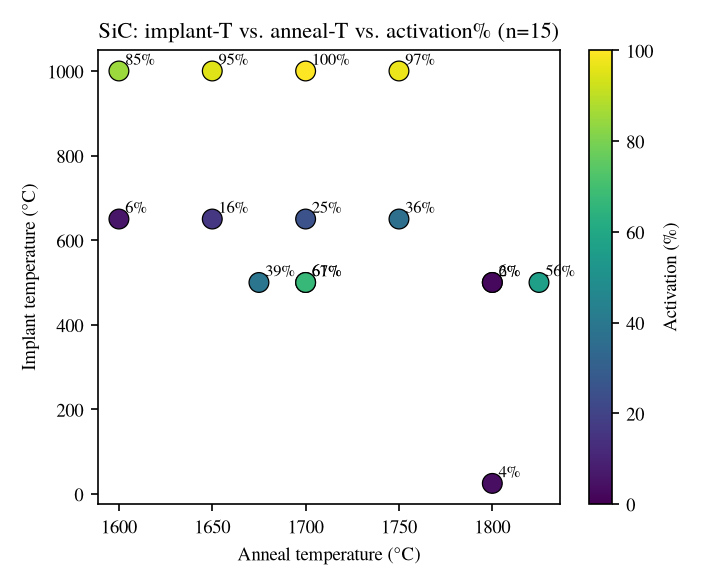
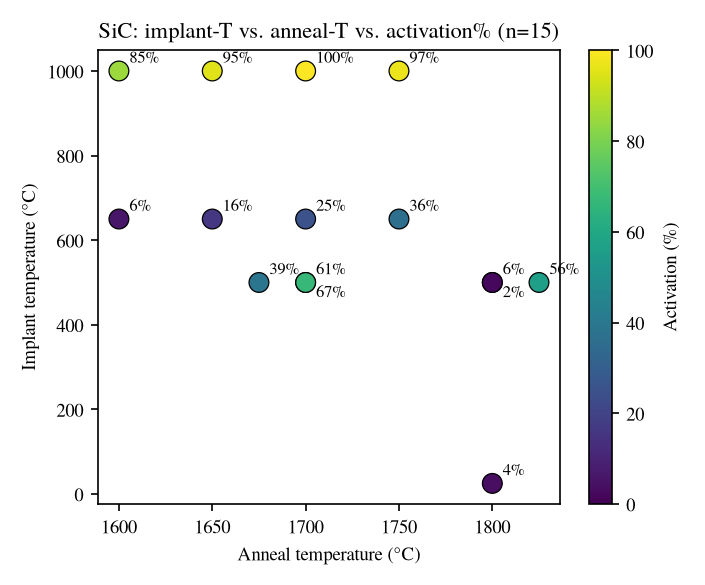
Fix overlapping labels in the activation figure and point the README to release v1.7

diff --git a/01_sic_analysis.py b/01_sic_analysis.py
@@ -262,8 +262,13 @@ plt.rcParams.update({"font.size": 9})
 fig, ax = plt.subplots(figsize=(4.7, 3.9))
 sc_ = ax.scatter(mv.anneal_T, mv.implant_T, c=mv.act, s=90, cmap="viridis", edgecolor="k",
                  linewidth=0.6, vmin=0, vmax=100)
+seen_pts = {}
 for _, r in mv.iterrows():
-    ax.annotate(f"{r.act:.0f}%", (r.anneal_T, r.implant_T), fontsize=8, xytext=(3, 3),
+    key = (round(r.anneal_T), round(r.implant_T))
+    k = seen_pts.get(key, 0)
+    seen_pts[key] = k + 1
+    # labels of points at identical coordinates are stacked so that they do not overlap
+    ax.annotate(f"{r.act:.0f}%", (r.anneal_T, r.implant_T), fontsize=8, xytext=(5, 4 - 11 * k),
                 textcoords="offset points")
 ax.set_xlabel("Anneal temperature (°C)")
 ax.set_ylabel("Implant temperature (°C)")

diff --git a/README.md b/README.md
@@ -58,7 +58,7 @@ Code: MIT. Data and figures: CC BY 4.0 (see `LICENSE`).
 
 Figures are drawn in a Times-type font. If Times New Roman, Times or Nimbus Roman is not installed, point `FIGURE_FONT_DIR` to a folder containing TeX Gyre Termes `.otf` files; otherwise matplotlib falls back to DejaVu Serif.
 
-Python 3.11.16 with the packages in `requirements.txt` (versions used: numpy 2.4.6, pandas 2.3.3, scipy 1.17.1, scikit-learn 1.9.1, matplotlib 3.11.1). The repository is tagged v1.6 for the analysis reported in the manuscript.
+Python 3.11.16 with the packages in `requirements.txt` (versions used: numpy 2.4.6, pandas 2.3.3, scipy 1.17.1, scikit-learn 1.9.1, matplotlib 3.11.1). The repository is tagged v1.7 for the analysis reported in the manuscript.
 
 ## Data notes
 
